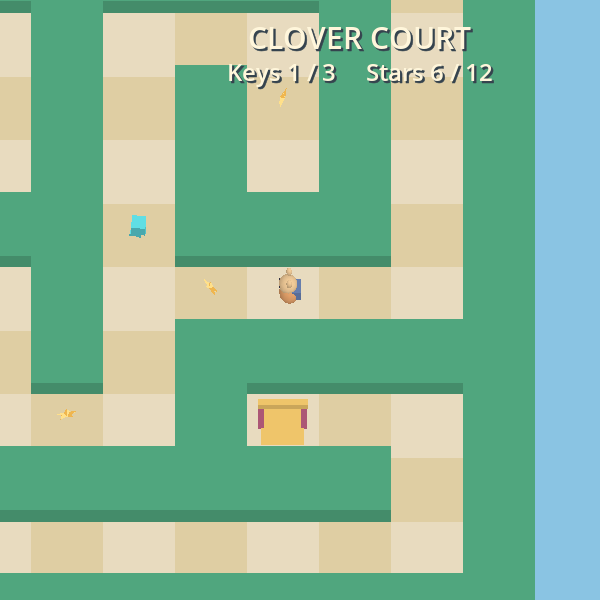
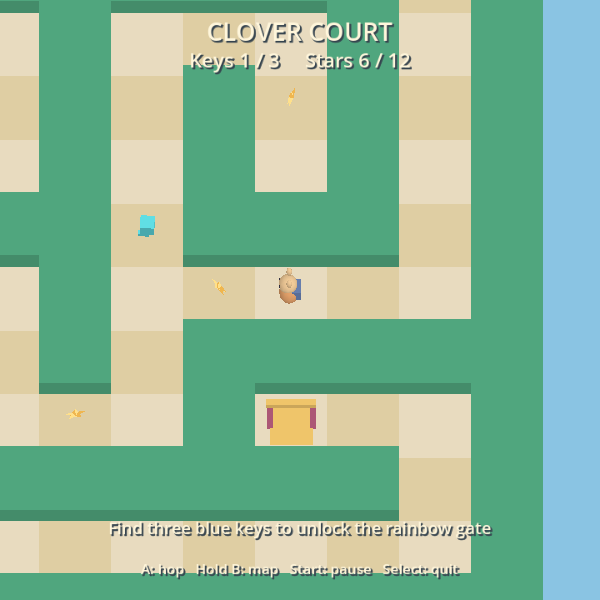
Preserve full-HUD benchmark correction and test lower resolution

diff --git a/docs/project-status.md b/docs/project-status.md
@@ -114,3 +114,8 @@ Hardware injected-key controls passed progression, collision, map and quit
 reported 720 at _ready but actual captured render is 600. Fixed HUD scale using
 configured viewport size; final rebuild and all-garden benchmarks pending.
 Current source renders whole scene + HUD at 600, upscaled to physical 720.
+
+Correction: 59.99 FPS at 600 had clipped lower HUD. With complete HUD, suite
+measured 57.55 / 56.43 / 57.02 FPS across three gardens; not final target met.
+See device-600-full-hud.log. Testing 480 internal rendering next, full HUD intact.
+Candidate SHA256 54fddd06b29c5b7601c2a0b768ba3700aecfea00bfca0982ab73f28d6219fee1.
